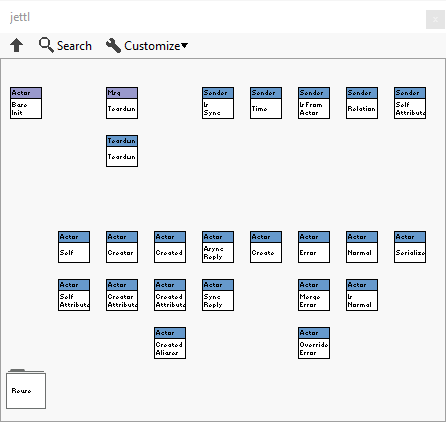
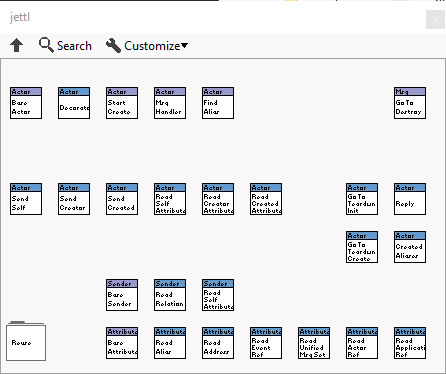
updated readme

diff --git a/README.md b/README.md
@@ -6,25 +6,19 @@
 
 *Dedicated to Stephen Loftus-Mercer for his pioneering work in introducing interfaces to the LabVIEW environment.*
 
-*Please message me with your suggestions on how I can demonstrate more clear explanations, what I can do to improve the codebase for the developers needs, and examples you'd like to see.*
-
-`jettl` is an object-oriented interface-composition based LabVIEW Actor Model library used for asynchronous processing of messages.
-The framework is based upon SOLID friendly design patterns including the Strategy Pattern and Decorator Pattern.
-SOLID principles, especially dependency inversion/injection, are used throughout the code base to encourage the developer to depend on abstractions.
-Many advanced concepts are used, but not described, for simplicity.
+`jettl` implements a SOLID-driven Actor Model architecture that unifies functional, procedural, and object-oriented paradigms.
 
 [Discord](https://discord.gg/tVkvTyBxqa)
 
 [Videos](https://www.youtube.com/@nathandavis6612)
 
-The framework is extended to work with other frameworks and design patterns.
-The source code is included for the jettl library along with the jettl Tools that help speed the process of development.
+After installation from [VIPM](https://www.vipm.io/package/nathan_davis_lib_jettl/), navigate to the `Data Communication` -> `jettl` palette:
 
 ![](doc/figures/jettl-palette.png)
 
-This library is compatible with LV 2020 and beyond. If using LV2020, please consider using LV 2020 SP1 and beyond due to issues resolved here:
+And find the native tools for jettl in from the pull-down menu `Tools` -> `jettl Tools`.
 
-[LabVIEW 2020 SP1 Bug Fixes](https://www.ni.com/en/support/documentation/bugs/20/labview-2020-sp1-bug-fixes.html?srsltid=AfmBOooUbuV9waHiF74KkrteQY7SRCENumzj1XCdQMWldAIuQMDW1sM6)
+A note on LabVIEW version: This library is compatible with LV 2020 and beyond. If using LV2020, please consider using LV 2020 SP1 and beyond due to issues resolved here: [LabVIEW 2020 SP1 Bug Fixes](https://www.ni.com/en/support/documentation/bugs/20/labview-2020-sp1-bug-fixes.html?srsltid=AfmBOooUbuV9waHiF74KkrteQY7SRCENumzj1XCdQMWldAIuQMDW1sM6)
 
 ## Motivation
 
@@ -36,43 +30,30 @@ Being intimately involved with the source code of the [Actor Framework](https://
 It follows the Actor Model and takes great inspiration from the Actor Framework, Derrick Bommarito's [lv-artifex](https://github.com/illuminated-g/lv-artifex), and ideas presented in the many talks given by [Dmitry Sagatelyan](https://forums.ni.com/t5/LabVIEW-Champions-Directory/LabVIEW-Champion-Dmitry-Sagatelyan/ta-p/3536802) on the Agile Software Design Principles, SOLID principles, and Context-Agnostic Actors.
 This work would not be possible without the contributions of those developers that have come before me.
 
-## Advantage
+## Advantages
 
 - **Relative Actor Relations**.
 Every Actor in the system has itself, called `Self`.
 Along with one `Creator` and N many `Created` Actors.
 - **Address Abstaction**.
-The address of an Actor is fully abstracted away to the developer.
+The address of an Actor is abstracted away from the developer, unless more advanced testing required.
 - **Messaging**.
-Actor messaging follow a strict tree hierarchy of messaging .
+Actor messaging follow a strict tree hierarchy of messaging.
 Actors internally use events to send messages.
 These messages are exclusively interface driven messages, fully abstracting the dependence between Actors.
 - **Composition over inheritance**.
 More specifically, interface composition.
-Interface composition allows for dynamic wrapping of classes via their common interface.
-In particular, debugging, unit testing, swapping panels, etc.
+Interface composition allows for dynamic wrapping of classes via their common `Actor` interface.
+In particular, debugging, unit testing, etc.
 - **Inline Object Manipulation in Event Structure**.
 Every Actor comes with an event structure, which has the central object wire passed through it leading to a true by value design.
 
 ## Documentation
 
 Look in the `doc` folder for the `main.pdf` for the ongoing documentation for `jettl`.
-Note, this documentation will likely be outdated.
-Please refer to the [Videos](https://www.youtube.com/@nathandavis6612) linked above, for explanations.
+Note, this documentation will likely be outdated due to recent rapid development.
+Please refer to the [Videos](https://www.youtube.com/@nathandavis6612) linked above, for more recent explanations.
 
-![](doc/figures/process-method.png)
 ![](doc/figures/actor-method.png)
-
-## Test Panel (Not Complete)
-
-Automatically generated test panel providing controls / necessary inputs for all messages the actor expects.
-have the test panel display payloads from messages received.
-This “Test Panel” is integrated as a part of the actor itself.
-This is to design modular Actors without dependencies of other Actors.
-Advanced: Potentially which messages the Actor is able to send and to which relative actor.
-
-## Debugging (Not Complete)
-
-Debug / Unit Test class wrapping.
-Some kind of diagram disable in the developed actor `Decorator.vi`, surrounding the (yet to be made) `Debug.lvclass`.
-That way debug code does not exist in Base classes, and is held exclusively in the `Base Debug.lvclass` / `Debug.lvclass` interface.
+![](doc/figures/placeholder--create.png)
+![](doc/figures/placeholder--alias.png)

diff --git a/obsidian_notes/Documentation/Documentation.md b/obsidian_notes/Documentation/Documentation.md
@@ -191,10 +191,17 @@ In particular, when initializing the actor, take care to not create references i
 
 ---
 
-FPOOP (Functional Procedural Object Oriented Programming)
+**Test Panel (Not Complete)**
+Automatically generated test panel providing controls / necessary inputs for all messages the actor expects.
+have the test panel display payloads from messages received.
+This “Test Panel” is integrated as a part of the actor itself.
+This is to design modular Actors without dependencies of other Actors.
+Advanced: Potentially which messages the Actor is able to send and to which relative actor.
 
+**Debugging (Not Complete)**
+Debug / Unit Test class wrapping.
+Some kind of diagram disable in the developed actor `Decorator.vi`, surrounding the (yet to be made) `Debug.lvclass`.
+That way debug code does not exist in Base classes, and is held exclusively in the `Base Debug.lvclass` / `Debug.lvclass` interface.
 
+---
 
-go to destroy and two senders too.
-
-where to find in palettes, picture

diff --git a/obsidian_notes/New Notes/Temporary Notes.md b/obsidian_notes/New Notes/Temporary Notes.md
@@ -571,3 +571,9 @@ Come back to this..
 kindof rule of thumb.. only append functionality AFTER the override method..?
 Also, some methods should discourage extending functionality? which ones?
 
+
+
+
+called `Msg Case`?
+
+
